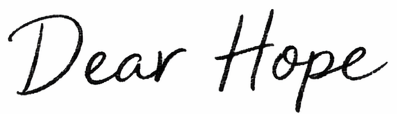
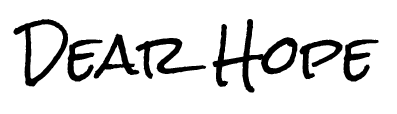
feat: apply ui designer refresh to gh-pages

Changed region(s): [[0.0, 0.0789, 0.9975, 1.0]]

diff --git a/styles.css b/styles.css
@@ -18,24 +18,123 @@ body {
   min-height: 100vh;
   -webkit-text-size-adjust: 100%;
   text-size-adjust: 100%;
-  font-family: 'Space Grotesk', 'Noto Sans KR', 'Pretendard', sans-serif;
   color: var(--ink);
-  background: radial-gradient(circle at 20% 10%, #ffd8a8 0%, transparent 45%),
-    linear-gradient(160deg, var(--bg-top), var(--bg-bottom));
+  background: #000000;
+  font-family: 'pretendard', sans-serif;
+  font-weight: 400;
+  font-style: normal;
 }
 
 .page {
-  max-width: 820px;
   margin: 0 auto;
   padding: 48px 20px 64px;
 }
 
 .card {
-  background: var(--card);
-  border: 1px solid #d8e1dc;
   border-radius: 20px;
   padding: 28px;
-  box-shadow: 0 20px 50px rgba(15, 118, 110, 0.08);
+  margin-top: 7vh;
+  text-align: center;
+}
+
+.card_letter {
+  background-image: url(./assets/DabdaPostOffice_02.jpg);
+  background-size: max(1300px, 100%);
+  background-position: center top;
+  background-repeat: no-repeat;
+  margin-top: -7vh !important;
+  padding: 50px;
+  border-radius: 0;
+}
+
+.card p,
+.card h1 {
+  font-family: 'forevs', sans-serif;
+  font-weight: 200;
+  font-style: normal;
+  letter-spacing: -0.5px;
+  color: #e2dcc4;
+}
+
+.card p.subtitle {
+  font-size: 32pt;
+  line-height: 10pt;
+}
+
+.card h1 {
+  font-size: 55pt;
+  line-height: 60pt;
+  font-weight: 300;
+  letter-spacing: -0.1px;
+}
+
+.card h2 {
+  color: #e2dcc4;
+  font-weight: 100;
+  font-size: 22px;
+}
+
+.card .house {
+  margin-top: 10vh;
+  max-width: 150px;
+}
+
+.card .postbox {
+  margin-top: 7vh;
+  max-width: 230px;
+}
+
+.card .house_text {
+  margin: 3vh 0;
+}
+
+.card label {
+  color: #e2dcc4;
+}
+
+.card_letter label {
+  color: #000000;
+}
+
+.card #entryForm,
+#letterVisibility {
+  max-width: 300px;
+  margin: 0 auto;
+}
+
+.card #composeForm button {
+  margin: 0 auto;
+  min-width: 300px;
+}
+
+.card input {
+  color: #e2dcc4;
+  height: 30px;
+  background: none;
+  border-radius: 0;
+  border: none;
+  border-bottom: 1px dashed #e2dcc4;
+}
+
+.card_letter input {
+  color: #000000;
+  height: 30px;
+  background: none;
+  border-radius: 0;
+  border: none;
+  border-bottom: 1px solid #000000;
+}
+
+.card button {
+  color: #000000;
+  background: #e2dcc4;
+  border-radius: 0;
+  height: 30px;
+  line-height: 10px;
+}
+
+.card button:hover {
+  background: #ffbefe;
 }
 
 .eyebrow {
@@ -86,8 +185,7 @@ textarea,
 select {
   width: 100%;
   border: 1px solid #b8c8c2;
-  border-radius: 12px;
-  padding: 10px 12px;
+  padding: 5px 12px;
   background: #fff;
 }
 
@@ -155,13 +253,9 @@ button.ghost {
 
 .letter-paper-stage {
   width: min(100%, 560px);
-  margin: 0 auto 8px;
-  border-radius: 18px;
-  background: #fffefb;
-  border: 1px solid #dfe8e3;
+  margin: 10% auto 8px;
   padding: 16px 16px 14px;
   overflow: hidden;
-  box-shadow: 0 10px 30px rgba(31, 42, 42, 0.12);
   --text-size: 1.02rem;
   --line-step: 1.9rem;
   --guide-line-color: rgba(86, 95, 92, 0.4);
@@ -228,7 +322,6 @@ button.ghost {
   width: 100%;
   min-height: clamp(340px, 50vh, 490px);
   border-radius: 12px;
-  border: 1px solid #eef2ef;
   padding: 3px 2px 0;
   resize: none;
   font-size: var(--text-size);
@@ -364,7 +457,7 @@ button.ghost {
 
   .letter-paper-stage {
     border-radius: 14px;
-    padding: 14px 12px 12px;
+    padding: 15% 12px 12px;
     --text-size: 0.98rem;
     --line-step: 1.82rem;
     --from-image-width: clamp(50px, 17vw, 74px);
@@ -406,6 +499,11 @@ button.ghost {
   .letter-paper-stage {
     --text-size: 0.95rem;
     --line-step: 1.76rem;
+    padding-top: 25%;
+  }
+
+  .card_letter {
+    margin-top: -14vh !important;
   }
 }
 
@@ -413,6 +511,7 @@ button.ghost {
   .letter-paper-stage {
     --text-size: 0.97rem;
     --line-step: 1.8rem;
+    padding-top: 20%;
   }
 }
 
@@ -420,5 +519,31 @@ button.ghost {
   .letter-paper-stage {
     --text-size: 0.99rem;
     --line-step: 1.84rem;
+    padding-top: 20%;
+  }
+}
+
+@media (max-width: 768px) {
+  .card {
+    margin-top: 6vh;
+  }
+
+  .card p.subtitle {
+    font-size: 22pt;
+    line-height: 10pt;
+  }
+
+  .card h1 {
+    font-size: 35pt;
+    line-height: 20pt;
+  }
+
+  .card .house {
+    margin-top: 10vh;
+    max-width: 100px;
+  }
+
+  .letter-paper-stage {
+    margin: 15% auto 8px;
   }
 }

diff --git a/index.html b/index.html
@@ -5,6 +5,40 @@
     <meta name="viewport" content="width=device-width, initial-scale=1.0" />
     <title>Dabda Post Office</title>
     <link rel="stylesheet" href="./styles.css" />
+    <link rel="stylesheet" href="https://use.typekit.net/awz3imm.css" />
+    <script>
+      (function (d) {
+        var config = {
+            kitId: 'awz3imm',
+            scriptTimeout: 3000,
+            async: true
+          },
+          h = d.documentElement,
+          t = setTimeout(function () {
+            h.className = h.className.replace(/\bwf-loading\b/g, '') + ' wf-inactive';
+          }, config.scriptTimeout),
+          tk = d.createElement('script'),
+          f = false,
+          s = d.getElementsByTagName('script')[0],
+          a;
+
+        h.className += ' wf-loading';
+        tk.src = 'https://use.typekit.net/' + config.kitId + '.js';
+        tk.async = true;
+
+        tk.onload = tk.onreadystatechange = function () {
+          a = this.readyState;
+          if (f || (a && a != 'complete' && a != 'loaded')) return;
+          f = true;
+          clearTimeout(t);
+          try {
+            Typekit.load(config);
+          } catch (e) {}
+        };
+
+        s.parentNode.insertBefore(tk, s);
+      })(document);
+    </script>
   </head>
   <body>
     <main class="page">

diff --git a/views/entryView.js b/views/entryView.js
@@ -3,8 +3,13 @@ export function renderEntryView(container, state, handlers, options = {}) {
   const loadingText = state.loading ? '<p class="muted">확인 중...</p>' : '';
   container.innerHTML = `
     <section class="card">
-      <p class="eyebrow">다브다 우체국</p>
-      <h1>우체국 문을 열어주세요.</h1>
+      <p class="eyebrow subtitle">2026 New Single [Dear Hope]</p>
+      <h1>Dabda PostOffice</h1>
+      <img class="house" src="./assets/house.png" alt="house" />
+      <p class="house_text">
+        다브다 우체국에 오신 것을 환영합니다.<br />
+        당신의 희망씨에게 편지를 전해드릴게요.
+      </p>
       <form id="entryForm" class="stack">
         <label for="entryCode">입장 코드</label>
         <input id="entryCode" name="entryCode" value="${state.entryCode || ''}" autocomplete="off" ${disabled} />

diff --git a/views/transitionView.js b/views/transitionView.js
@@ -1,8 +1,11 @@
 export function renderTransitionView(container) {
   container.innerHTML = `
     <section class="card">
-      <h2>편지가 발송되었어요. 감사합니다! 💌</h2>
+      <p class="eyebrow subtitle">2026 New Single [Dear Hope]</p>
+      <h1>Dabda PostOffice</h1>
+      <h2>희망씨에게 편지가 발송되었어요.</h2>
       <p>곧 열릴 우체통을 기다려주세요. 📮</p>
+      <img class="postbox" src="./assets/postbox.png" alt="postbox" />
     </section>
   `;
 }

diff --git a/views/composeView.js b/views/composeView.js
@@ -1,7 +1,7 @@
 export function renderComposeView(container, state, handlers) {
   const disabled = state.loading ? 'disabled' : '';
   container.innerHTML = `
-    <section class="card">
+    <section class="card card_letter">
       <form id="composeForm" class="stack">
         <div class="letter-paper-stage compose-paper">
           <div class="compose-paper-header">